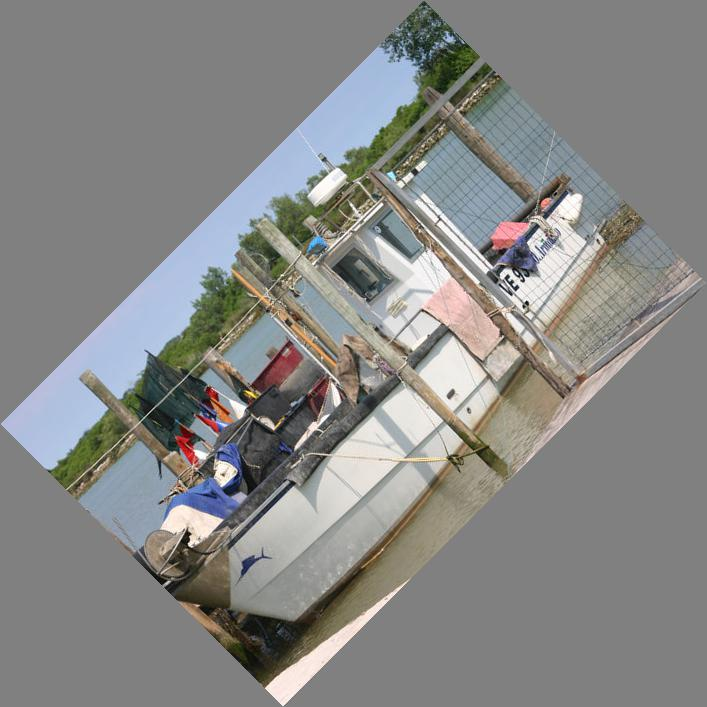
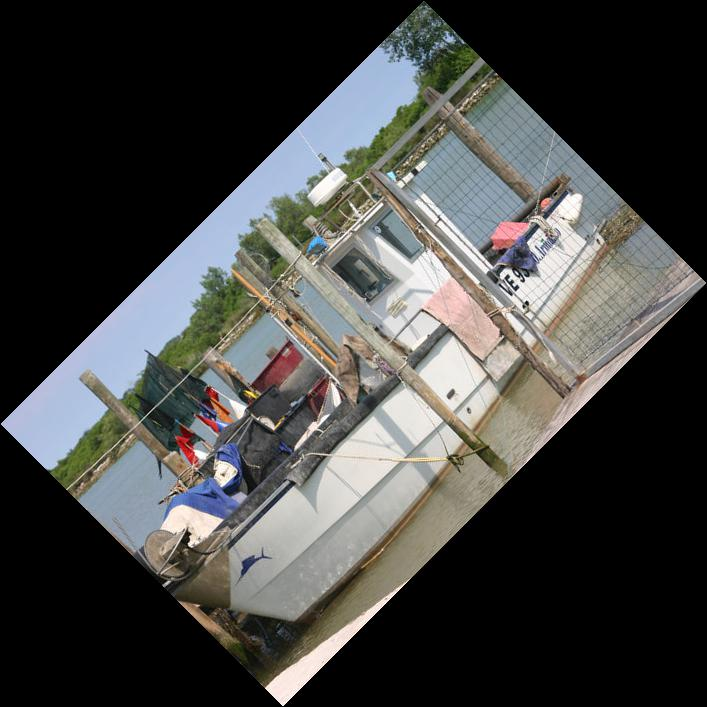
Add ndimage affine and geometric examples

diff --git a/python-libraries/numpy/shear-image.py b/python-libraries/numpy/shear-image.py
@@ -1,0 +1,24 @@
+# Author:  Martin McBride
+# Created: 2021-03-16
+# Copyright (C) 2021, Martin McBride
+# License: MIT
+
+import numpy as np
+from PIL import Image
+from scipy import ndimage
+
+img_in = Image.open('boat.jpg')
+array = np.array(img_in)
+
+height, width, colors = array.shape
+
+transform = [[1, 0, 0],
+             [0.5, 1, 0],
+             [0, 0, 1]]
+sheared_array = ndimage.affine_transform(array,
+                                         transform,
+                                         offset=(0, -height//2, 0),
+                                         output_shape=(height, width+height//2, colors))
+
+img_out = Image.fromarray(sheared_array)
+img_out.save('shear-boat.jpg')

diff --git a/python-libraries/numpy/geo-image.py b/python-libraries/numpy/geo-image.py
@@ -1,0 +1,20 @@
+# Author:  Martin McBride
+# Created: 2021-03-16
+# Copyright (C) 2021, Martin McBride
+# License: MIT
+
+import numpy as np
+from PIL import Image
+from scipy import ndimage
+import math
+
+img_in = Image.open('boat.jpg')
+array = np.array(img_in)
+
+def transform(output_coords):
+    return output_coords[0]%200, output_coords[1]%300, output_coords[2]
+
+transformed_array = ndimage.geometric_transform(array, transform)
+
+img_out = Image.fromarray(transformed_array)
+img_out.save('geo-boat.jpg')

diff --git a/python-libraries/numpy/rotate-image-noreshape.py b/python-libraries/numpy/rotate-image-noreshape.py
@@ -10,7 +10,7 @@ from scipy import ndimage
 img_in = Image.open('boat.jpg')
 array = np.array(img_in)
 
-rotated_array = ndimage.rotate(array, 45, reshape=False)
+rotated_array = ndimage.rotate(array, 45, reshape=False, cval=128)
 
 img_out = Image.fromarray(rotated_array)
 img_out.save('rotate-boat-noreshape.jpg')

diff --git a/python-libraries/numpy/rotate-image.py b/python-libraries/numpy/rotate-image.py
@@ -10,7 +10,7 @@ from scipy import ndimage
 img_in = Image.open('boat.jpg')
 array = np.array(img_in)
 
-rotated_array = ndimage.rotate(array, 45, cval=128)
+rotated_array = ndimage.rotate(array, 45)
 
 img_out = Image.fromarray(rotated_array)
 img_out.save('rotate-boat.jpg')
